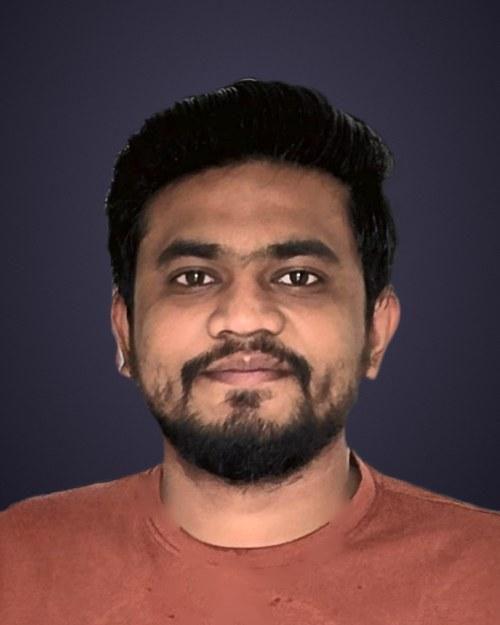
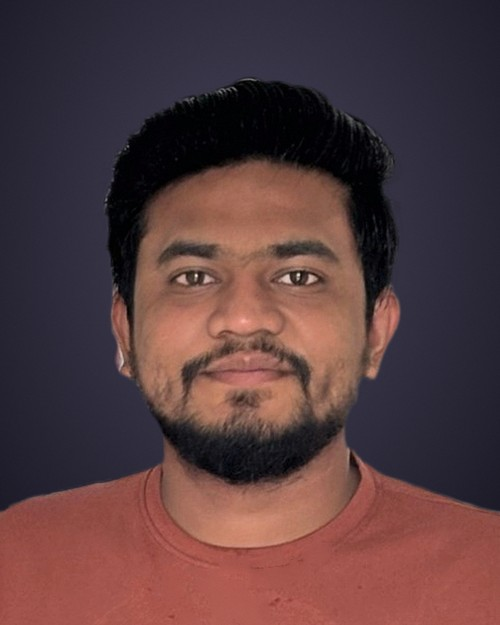
Brighten badge photo and even out face and neck tone
Lift face shadows with a low-frequency tone pass that keeps skin detail,
keep the stain cleanup away from the neck, and sharpen instead of
smoothing.

diff --git a/tools/retouch_photo.py b/tools/retouch_photo.py
@@ -26,12 +26,12 @@ def clean_shirt(rgb: np.ndarray, alpha: np.ndarray, face_bottom: int) -> np.ndar
     hsv = cv2.cvtColor(rgb, cv2.COLOR_RGB2HSV)
     h, s, v = cv2.split(hsv)
     # The shirt is a saturated rust/orange; skin is less saturated.
-    shirt = ((h < 16) | (h > 170)) & (s > 110) & (alpha > 200)
+    shirt = ((h < 16) | (h > 170)) & (s > 118) & (alpha > 200)
     shirt[:face_bottom] = False
     # Only fill small holes in the fabric; a wide close would swallow the neck.
     shirt = cv2.morphologyEx(shirt.astype(np.uint8), cv2.MORPH_CLOSE, np.ones((7, 7), np.uint8)).astype(bool)
-    skin = (s < 105) | ((h > 5) & (h < 25) & (v > 150))
-    skin = cv2.dilate(skin.astype(np.uint8), np.ones((15, 15), np.uint8)).astype(bool)
+    skin = (s < 125) | ((h > 5) & (h < 25) & (v > 140))
+    skin = cv2.dilate(skin.astype(np.uint8), np.ones((31, 31), np.uint8)).astype(bool)
     shirt &= ~skin
 
     local = cv2.medianBlur(v, 41).astype(np.int16)
@@ -43,24 +43,59 @@ def clean_shirt(rgb: np.ndarray, alpha: np.ndarray, face_bottom: int) -> np.ndar
         if 12 < stats[i, cv2.CC_STAT_AREA] < 9000:
             mask[labels == i] = 255
     mask = cv2.dilate(mask, np.ones((13, 13), np.uint8))
-    out = cv2.inpaint(rgb, mask, 15, cv2.INPAINT_TELEA)
-    # Blend the patches in with the fabric's own texture-free tone.
-    soft = cv2.GaussianBlur(mask, (0, 0), 6)[..., None].astype(np.float32) / 255.0
-    fabric = cv2.medianBlur(out, 31)
-    return (out * (1 - soft * 0.6) + fabric * (soft * 0.6)).astype(np.uint8)
+    return cv2.inpaint(rgb, mask, 15, cv2.INPAINT_TELEA)
 
 
-def grade(rgb: np.ndarray) -> np.ndarray:
-    lab = cv2.cvtColor(rgb, cv2.COLOR_RGB2LAB)
-    l, a, b = cv2.split(lab)
-    l = cv2.createCLAHE(clipLimit=1.6, tileGridSize=(8, 8)).apply(l)
-    lab = cv2.merge([l, a, cv2.add(b, 3)])  # a touch warmer
-    out = cv2.cvtColor(lab, cv2.COLOR_LAB2RGB)
-    # Gentle skin smoothing that keeps edges, then a light sharpen.
-    smooth = cv2.bilateralFilter(out, 9, 28, 9)
-    out = cv2.addWeighted(out, 0.6, smooth, 0.4, 0)
-    blur = cv2.GaussianBlur(out, (0, 0), 1.6)
-    return cv2.addWeighted(out, 1.35, blur, -0.35, 0)
+def skin_mask(rgb: np.ndarray, alpha: np.ndarray, head_bottom: int) -> np.ndarray:
+    """Soft mask of face skin (not hair, beard or shirt), 0..1."""
+    _, cr, cb = cv2.split(cv2.cvtColor(rgb, cv2.COLOR_RGB2YCrCb))
+    sat = cv2.cvtColor(rgb, cv2.COLOR_RGB2HSV)[:, :, 1]
+    skin = (cr > 135) & (cr < 175) & (cb > 85) & (cb < 130) & (sat < 120) & (alpha > 200)
+    skin[head_bottom:] = False
+    skin = cv2.morphologyEx(skin.astype(np.uint8), cv2.MORPH_OPEN, np.ones((5, 5), np.uint8))
+    # Keep the face: the largest skin region in the head area.
+    n, labels, stats, _ = cv2.connectedComponentsWithStats(skin)
+    if n > 1:
+        face = 1 + int(np.argmax(stats[1:, cv2.CC_STAT_AREA]))
+        skin = (labels == face).astype(np.uint8)
+    skin = cv2.morphologyEx(skin, cv2.MORPH_CLOSE, np.ones((21, 21), np.uint8))
+    return cv2.GaussianBlur(skin.astype(np.float32), (0, 0), 6)
+
+
+def grade(rgb: np.ndarray, face: np.ndarray, alpha: np.ndarray) -> np.ndarray:
+    """Brighten the subject naturally and lift shadows on the face, keeping texture."""
+    lab = cv2.cvtColor(rgb, cv2.COLOR_RGB2LAB).astype(np.float32)
+    l = lab[:, :, 0]
+    subject = (alpha.astype(np.float32) / 255.0)
+
+    # Overall lift for the person only: a gentle gamma that opens the midtones.
+    lifted = 255.0 * (l / 255.0) ** 0.86
+    l = l * (1 - subject) + lifted * subject
+
+    # Face: split into low-frequency tone and high-frequency detail. Raise the tone
+    # of shadowed patches (under the eyes, cheeks) toward the lit skin level, then
+    # add the untouched detail back so skin texture stays sharp.
+    weights = face + 1e-4
+    low = cv2.GaussianBlur(l * face, (0, 0), 16) / cv2.GaussianBlur(weights, (0, 0), 16)
+    target = np.percentile(l[face > 0.6], 72)
+    lift = np.clip(target - low, 0, 45) * 0.5
+    l = l + lift * face
+    # A small overall brightening of the face so it sits with the neck.
+    l = l + 6 * face
+
+    # Put back some contrast on the person with a soft S-curve around mid-grey.
+    x = np.clip(l, 0, 255) / 255.0
+    curved = 255.0 * (x + 0.18 * (x - 0.5) * (1 - np.abs(2 * x - 1)))
+    l = l * (1 - subject) + curved * subject
+
+    lab[:, :, 0] = np.clip(l, 0, 255)
+    lab[:, :, 1] += 1.5 * face  # a little warmth and life in the skin
+    lab[:, :, 2] += 4.0 * face
+    out = cv2.cvtColor(lab.clip(0, 255).astype(np.uint8), cv2.COLOR_LAB2RGB)
+
+    # Clarity: unsharp mask rather than smoothing.
+    blur = cv2.GaussianBlur(out, (0, 0), 1.1)
+    return cv2.addWeighted(out, 1.4, blur, -0.4, 0)
 
 
 def backdrop(w: int, h: int) -> np.ndarray:
@@ -84,8 +119,9 @@ def main(src: str) -> None:
     top, bottom = ys.min(), ys.max()
     height = bottom - top
     face_bottom = top + int(height * 0.2)
+    face = skin_mask(rgb, alpha, face_bottom)
     rgb = clean_shirt(rgb, alpha, face_bottom)
-    rgb = grade(rgb)
+    rgb = grade(rgb, face, alpha)
 
     # Head-and-shoulders crop centred on the head.
     head_rows = alpha[top : top + int(height * 0.12)] > 128
@@ -97,21 +133,31 @@ def main(src: str) -> None:
     x0 = min(max(cx - crop_w // 2, 0), photo.width - crop_w)
     box = (slice(y0, y0 + crop_h), slice(x0, x0 + crop_w))
 
-    fg = cv2.resize(rgb[box], (OUT_W, OUT_H), interpolation=cv2.INTER_AREA).astype(np.float32)
+    OUT_DIR.mkdir(exist_ok=True)
+    img = composite(rgb, alpha, box, OUT_W, OUT_H)
+    img.save(OUT_DIR / "headshot.jpg", quality=92, optimize=True, progressive=True)
+    img.resize((500, 625), Image.LANCZOS).save(OUT_DIR / "headshot-500.jpg", quality=90, optimize=True)
+
+    # Square profile photo (LinkedIn crops to a circle, so keep the head centred).
+    side = int(crop_w * 1.4)
+    sy0 = max(top - int(side * 0.13), 0)
+    sx0 = min(max(cx - side // 2, 0), photo.width - side)
+    square = composite(rgb, alpha, (slice(sy0, sy0 + side), slice(sx0, sx0 + side)), 1080, 1080)
+    square.save(OUT_DIR / "profile-square.jpg", quality=95, optimize=True)
+    print(f"wrote headshot.jpg, headshot-500.jpg, profile-square.jpg (source crop {crop_w}x{crop_h})")
+
+
+def composite(rgb: np.ndarray, alpha: np.ndarray, box: tuple, w: int, h: int) -> Image.Image:
+    """Place the graded subject from `box` on the studio backdrop at w x h."""
+    fg = cv2.resize(rgb[box], (w, h), interpolation=cv2.INTER_LANCZOS4).astype(np.float32)
     # Pull the matte in a little so the old background doesn't halo the edge.
     matte = cv2.erode(alpha[box], np.ones((5, 5), np.uint8))
-    a = cv2.resize(matte, (OUT_W, OUT_H), interpolation=cv2.INTER_AREA).astype(np.float32) / 255.0
-    a = cv2.GaussianBlur(a, (0, 0), 1.2)[..., None]
-    bg = backdrop(OUT_W, OUT_H)
-    out = fg * a + bg * (1 - a)
-
-    OUT_DIR.mkdir(exist_ok=True)
-    img = Image.fromarray(out.clip(0, 255).astype(np.uint8))
-    img.save(OUT_DIR / "headshot.jpg", quality=90, optimize=True, progressive=True)
-    img.resize((500, 625), Image.LANCZOS).save(OUT_DIR / "headshot-500.jpg", quality=88, optimize=True)
-    rgba = np.dstack([fg, a[..., 0] * 255]).clip(0, 255).astype(np.uint8)
-    Image.fromarray(rgba, "RGBA").resize((600, 750), Image.LANCZOS).save(OUT_DIR / "cutout.png", optimize=True)
-    print("wrote assets/headshot.jpg, headshot-500.jpg, cutout.png")
+    a = cv2.resize(matte, (w, h), interpolation=cv2.INTER_LINEAR).astype(np.float32) / 255.0
+    a = cv2.GaussianBlur(a, (0, 0), 1.2 * w / 1000)[..., None]
+    # Fine grain after upscaling keeps skin from looking airbrushed.
+    grain = np.random.default_rng(3).normal(0, 2.2, (h, w, 1)).astype(np.float32)
+    out = (fg + grain) * a + backdrop(w, h) * (1 - a)
+    return Image.fromarray(out.clip(0, 255).astype(np.uint8))
 
 
 if __name__ == "__main__":
